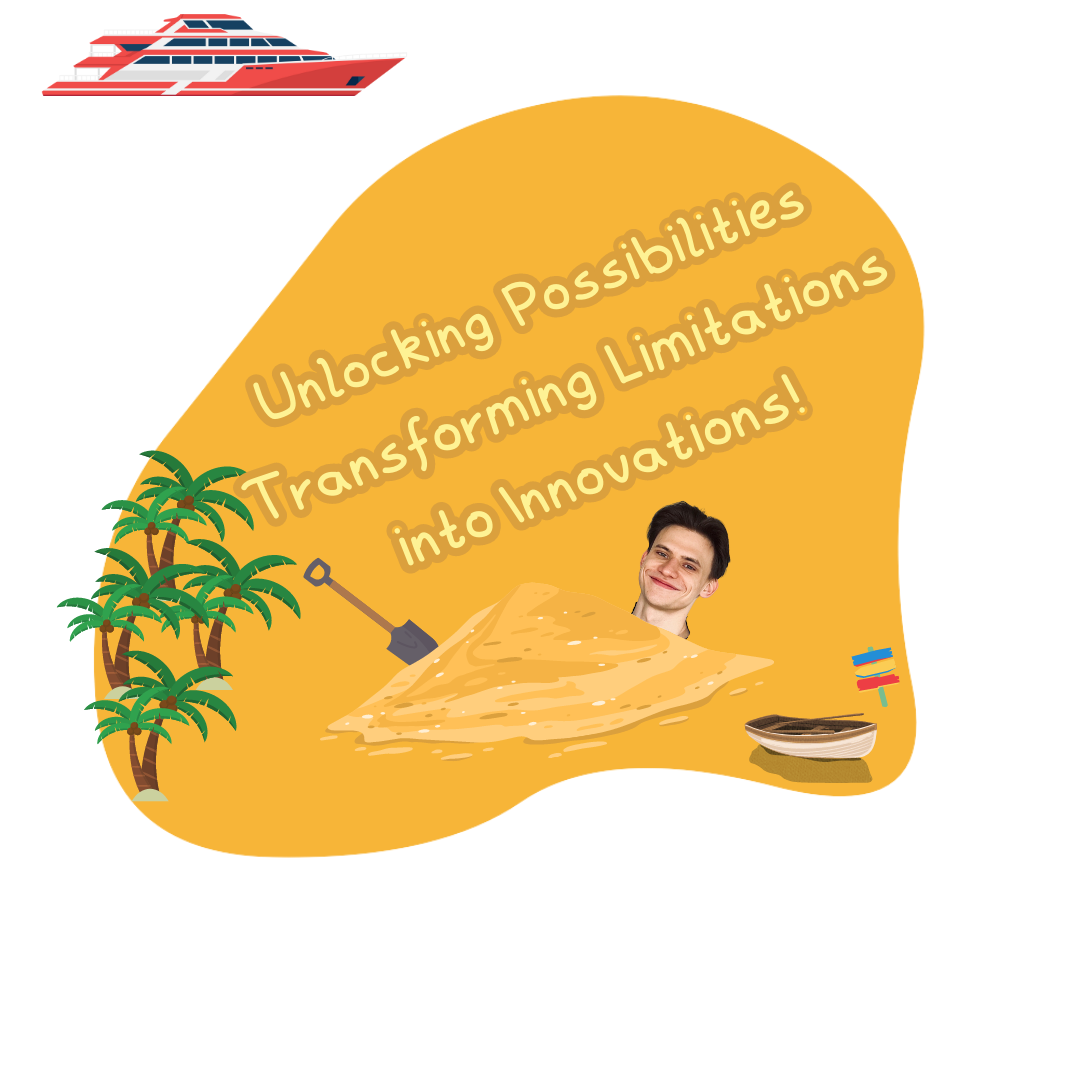
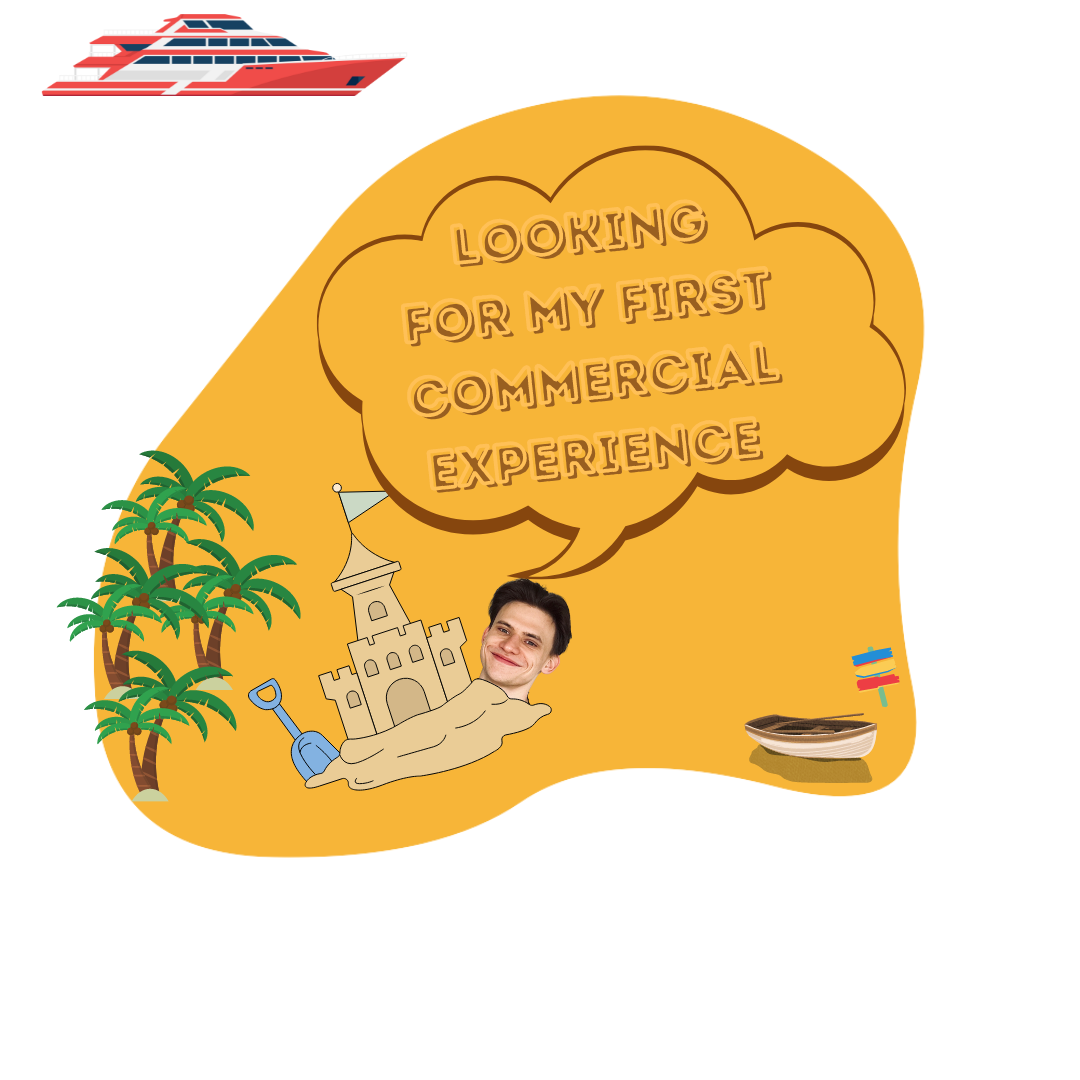
Add guide, and hero

Changed region(s): [[0.2139, 0.1528, 0.825, 0.7333], [0.55, 0.1222, 0.6417, 0.1528], [0.825, 0.3667, 0.8556, 0.3972]]

diff --git a/src/components/pages/Guide/Guide.js b/src/components/pages/Guide/Guide.js
@@ -1,0 +1,85 @@
+import { faAnchor } from '@fortawesome/free-solid-svg-icons';
+import { FontAwesomeIcon } from '@fortawesome/react-fontawesome';
+import { Col, Row } from 'react-bootstrap';
+import { Link } from 'react-router-dom';
+
+export const Guide = () => {
+  return (
+    <Row className=' my-4'>
+      <Row>
+        <Col align='center' xs={12}>
+          <h1>Hi, I'm Pawel and I'm a guide here </h1>
+        </Col>
+        <Col align='center'>
+          <small>
+            * you can meet me on one of the islands next to the sand castle *
+          </small>
+        </Col>
+      </Row>
+      <Col className=' my-4' xs={12} align='center'>
+        <div className=' my-3'>
+          <h4> I S L A N D S </h4>
+        </div>
+        <div className=' my-2'>
+          <h3>
+            Every island here is different, but each of them is very important
+          </h3>
+        </div>
+        <div className=' my-2'>
+          <h3>
+            * Click on the island with a cactus and it will take you to my
+            profile on linkedIn *
+          </h3>
+        </div>
+        <div className=' my-2'>
+          <h3>
+            * On the island with the dragon you can see my certificate of
+            completion of Kodilla's bootcamp *
+          </h3>
+        </div>
+        <div className=' my-2'>
+          <h3>
+            * Want to see all my projects on github? Go to the island with
+            astronaut *
+          </h3>
+        </div>
+        <div className=' my-2'>
+          <h3>
+            * Sail to the safari island to see my most interesting projects *
+          </h3>
+        </div>
+      </Col>
+      <Col className=' my-4' xs={12} align='center'>
+        <div className=' my-3'>
+          <h4> P R O J E C T S </h4>
+        </div>
+        <div className=' my-2'>
+          <h3>
+            * Each project has a laptop that will take you to the project
+            website *
+          </h3>
+        </div>
+        <div className=' my-2'>
+          <h3>
+            * Each project also has a description, used technologies and a link
+            to the code *
+          </h3>
+        </div>
+        <div className=' my-2'>
+          <h3>* To change the displayed project swipe left or right *</h3>
+        </div>
+      </Col>
+      <Col className=' my-4' xs={12} align='center'>
+        <div className=' my-2'>
+          <h3>To get back from the island, grab the anchor</h3>
+          <Link className=' my-2' to={'/'} style={{ color: 'white' }}>
+            <FontAwesomeIcon icon={faAnchor} size='2x' />
+          </Link>
+        </div>
+      </Col>
+      <Col className=' my-4' xs={12} align='center'>
+        <h5>HAVE FUN!</h5>
+      </Col>
+    </Row>
+  );
+};

diff --git a/src/components/pages/Home/Home.js b/src/components/pages/Home/Home.js
@@ -1,9 +1,12 @@
 import styles from './Home.module.scss';
 import { Col, Row } from 'react-bootstrap';
 import { Link } from 'react-router-dom';
+import { Hero } from '../../layout/Hero/Hero';
+import { Footer } from '../../layout/Footer/Footer';
 export const Home = () => {
   return (
     <>
+      <Hero />
       <Row>
         <Col>
           <a
@@ -14,25 +17,32 @@ export const Home = () => {
             <img
               src={process.env.PUBLIC_URL + '/blobs/linkedinBlob.png'}
               alt='linkedInBlob'
-              className='img-fluid'
+              className='img-fluid overfow-hidden'
             />
           </a>
           <Link to={'/projects'}>
             <img
               src={process.env.PUBLIC_URL + '/blobs/projectsBlob.png'}
               alt='projectsBlob'
-              className={`${styles.projectsBlob} img-fluid`}
+              className={`${styles.projectsBlob} img-fluid `}
             />
           </Link>
           <Link to={'/certificate'}>
             <img
               src={process.env.PUBLIC_URL + '/blobs/certificateBlob.png'}
               alt='certificateBlob'
-              className={`${styles.certificateBlob} img-fluid`}
+              className={`${styles.certificateBlob} img-fluid `}
             />
           </Link>
         </Col>
         <Col>
+          <Link to={'/guide'}>
+            <img
+              src={process.env.PUBLIC_URL + '/blobs/guideBlob.png'}
+              alt='guideBlob'
+              className={`img-fluid `}
+            />
+          </Link>
           <img
             src={process.env.PUBLIC_URL + '/blobs/meBlob.png'}
             alt='meBlob'
@@ -47,6 +57,7 @@ export const Home = () => {
           </a>
         </Col>
       </Row>
+      <Footer />
     </>
   );
 };

diff --git a/src/App.js b/src/App.js
@@ -4,6 +4,7 @@ import { Home } from './components/pages/Home/Home';
 import { NotFound } from './components/pages/NotFound/NotFound';
 import { Certificate } from './components/pages/Certificate/Certificate';
 import { Projects } from './components/pages/Projects/Projects';
+import { Guide } from './components/pages/Guide/Guide';
 
 export const App = () => {
   return (
@@ -12,6 +13,7 @@ export const App = () => {
         <Route path='/' element={<Home />} />
         <Route path='/projects' element={<Projects />} />
         <Route path='/certificate' element={<Certificate />} />
+        <Route path='/guide' element={<Guide />} />
         <Route path='*' element={<NotFound />} />
       </Routes>
     </MainLayout>

diff --git a/src/components/layout/MainLayout/MainLayout.module.scss b/src/components/layout/MainLayout/MainLayout.module.scss
@@ -3,13 +3,14 @@
 .container {
   display: flex;
   flex-direction: column;
-  min-height: 100vh;
+  height: 100%;
+  overflow: hidden;
   margin: 0;
-}
-.children {
   color: white;
   font-size: small;
   font-family: 'Press Start 2P', cursive;
+}
+.children {
   flex: 1;
 }
 
@@ -17,7 +18,7 @@ body {
   background: linear-gradient(-45deg, #1b262c, #0f4c75, #3282b8, #bbe1fa);
   background-size: 300% 300%;
   animation: gradient 15s ease infinite;
-  height: 100vh;
+  min-height: 100vh;
 }
 
 @keyframes gradient {

diff --git a/src/components/pages/Projects/Projects.js b/src/components/pages/Projects/Projects.js
@@ -47,8 +47,8 @@ export const Projects = () => {
 
       <Swipeable
         className
-        leftAction={() => handleProjectChange(activeProject - 1)}
-        rightAction={() => handleProjectChange(activeProject + 1)}
+        leftAction={() => handleProjectChange(activeProject + 1)}
+        rightAction={() => handleProjectChange(activeProject - 1)}
       >
         {projects
           .filter((project, index) => index === activeProject)

diff --git a/src/components/layout/Footer/Footer.js b/src/components/layout/Footer/Footer.js
@@ -1,0 +1,11 @@
+import { Col, Row } from 'react-bootstrap';
+
+export const Footer = () => {
+  return (
+    <Row className=' my-4'>
+      <Col align='center' className=' my-4'>
+        <p>First time here? For better experiences see guide</p>
+      </Col>
+    </Row>
+  );
+};

diff --git a/src/components/layout/Hero/Hero.js b/src/components/layout/Hero/Hero.js
@@ -1,0 +1,11 @@
+import { Col, Row } from 'react-bootstrap';
+
+export const Hero = () => {
+  return (
+    <Row className=' my-4'>
+      <Col align='center' className=' my-4'>
+        <h1>Welcome to my archipelago</h1>
+      </Col>
+    </Row>
+  );
+};

diff --git a/src/components/pages/Home/Home.module.scss b/src/components/pages/Home/Home.module.scss
@@ -1,5 +1,4 @@
 .meBlob {
-  padding-top: 50%;
 }
 
 .projectsBlob {
@@ -14,4 +13,5 @@
 
 .gitHubBlob {
   transform: rotate(40deg);
+  padding-bottom: 10%;
 }
